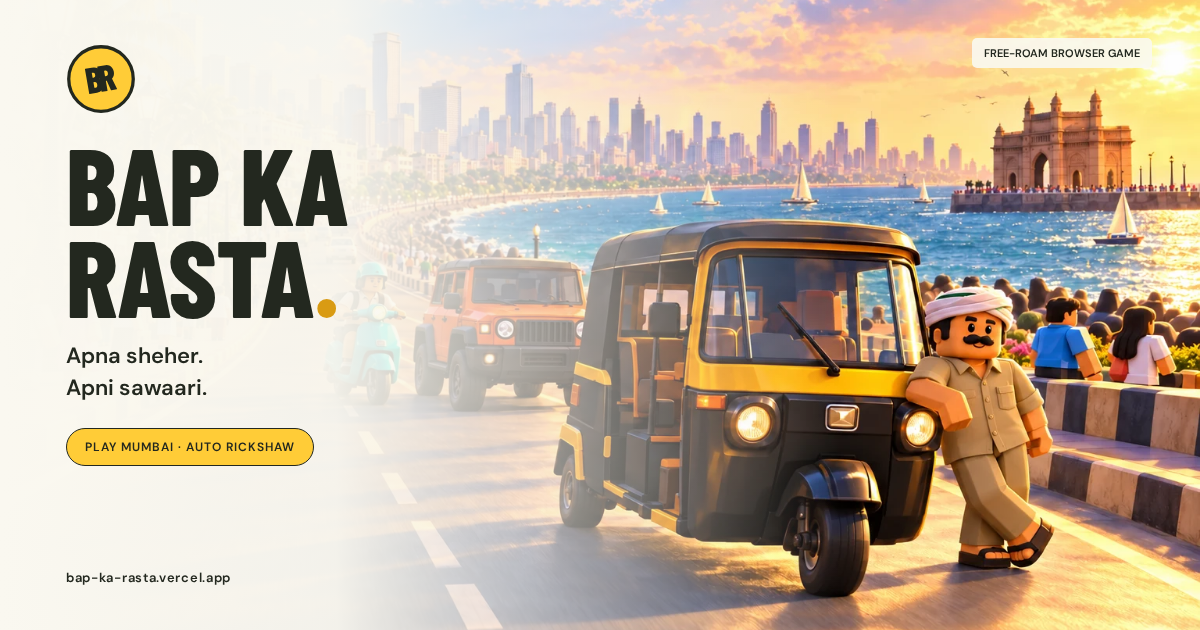
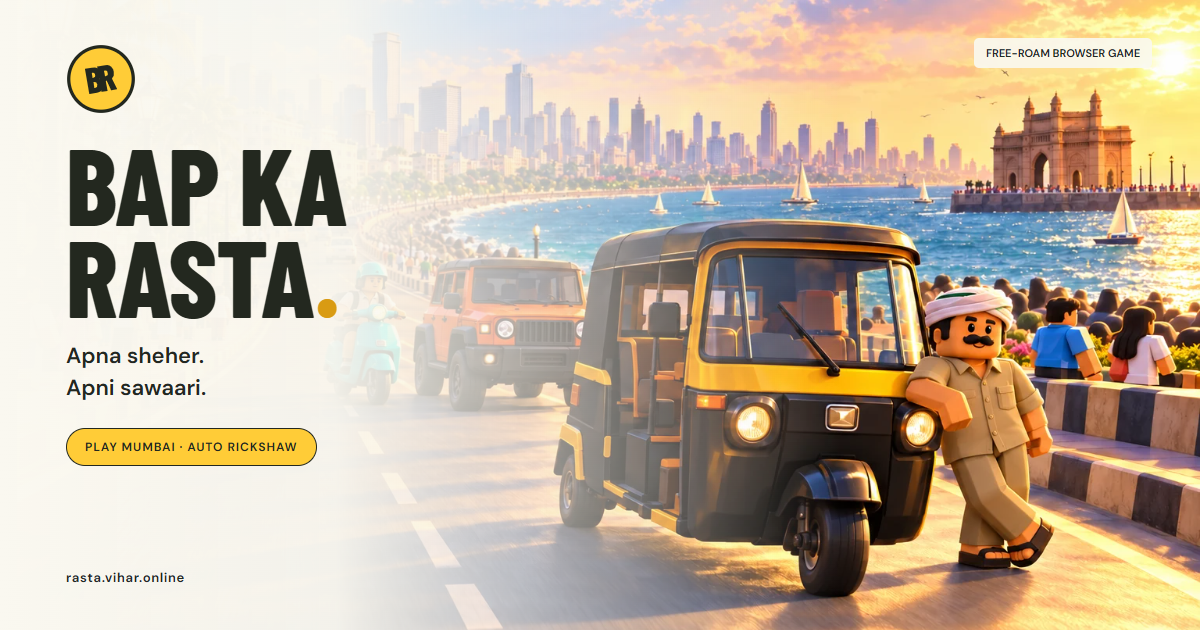
Prerender game landing and correct production canonical URLs

diff --git a/index.html b/index.html
@@ -7,7 +7,7 @@
     <meta name="description" content="Play Bap Ka Rasta, a free-roam Mumbai auto rickshaw game in your browser. Apna sheher. Apni sawaari. Drive on desktop or explore in a landscape canvas on your phone." />
     <meta name="robots" content="index, follow, max-image-preview:large" />
     <title>Bap Ka Rasta — Mumbai Auto Rickshaw Game</title>
-    <link rel="canonical" href="https://bap-ka-rasta.vercel.app/" />
+    <link rel="canonical" href="https://rasta.vihar.online/" />
     <link rel="icon" href="/favicon.svg" type="image/svg+xml" />
     <link rel="icon" href="/brand/favicon-32.png" type="image/png" sizes="32x32" />
     <link rel="shortcut icon" href="/favicon.ico" />
@@ -20,11 +20,11 @@
     <meta property="og:type" content="website" />
     <meta property="og:site_name" content="Bap Ka Rasta" />
     <meta property="og:locale" content="en_IN" />
-    <meta property="og:url" content="https://bap-ka-rasta.vercel.app/" />
+    <meta property="og:url" content="https://rasta.vihar.online/" />
     <meta property="og:title" content="Bap Ka Rasta — Apna sheher. Apni sawaari." />
     <meta property="og:description" content="Your Mumbai. Your auto. Your road. A free-roam driving game for desktop and landscape mobile play." />
-    <meta property="og:image" content="https://bap-ka-rasta.vercel.app/brand/og-cover.png" />
-    <meta property="og:image:secure_url" content="https://bap-ka-rasta.vercel.app/brand/og-cover.png" />
+    <meta property="og:image" content="https://rasta.vihar.online/brand/og-cover.png" />
+    <meta property="og:image:secure_url" content="https://rasta.vihar.online/brand/og-cover.png" />
     <meta property="og:image:type" content="image/png" />
     <meta property="og:image:width" content="1200" />
     <meta property="og:image:height" content="630" />
@@ -32,10 +32,10 @@
     <meta name="twitter:card" content="summary_large_image" />
     <meta name="twitter:title" content="Bap Ka Rasta — Mumbai Auto Rickshaw Game" />
     <meta name="twitter:description" content="Apna sheher. Apni sawaari. Explore Mumbai in your auto — play in your browser." />
-    <meta name="twitter:image" content="https://bap-ka-rasta.vercel.app/brand/og-cover.png" />
+    <meta name="twitter:image" content="https://rasta.vihar.online/brand/og-cover.png" />
     <meta name="twitter:image:alt" content="BR — Bap Ka Rasta, with a Mumbai auto rickshaw and its driver at golden hour." />
     <script type="application/ld+json">
-      {"@context":"https://schema.org","@type":"VideoGame","name":"Bap Ka Rasta","alternateName":"BR","url":"https://bap-ka-rasta.vercel.app/","image":"https://bap-ka-rasta.vercel.app/brand/og-cover.png","description":"A single-player free-roam Mumbai auto rickshaw game played in a web browser.","genre":["Driving","Arcade"],"gamePlatform":"Web browser","playMode":"https://schema.org/SinglePlayer","isAccessibleForFree":true,"inLanguage":"en-IN"}
+      {"@context":"https://schema.org","@type":"VideoGame","name":"Bap Ka Rasta","alternateName":"BR","url":"https://rasta.vihar.online/","image":"https://rasta.vihar.online/brand/og-cover.png","description":"A single-player free-roam Mumbai auto rickshaw game played in a web browser.","genre":["Driving","Arcade"],"gamePlatform":"Web browser","playMode":"https://schema.org/SinglePlayer","isAccessibleForFree":true,"inLanguage":"en-IN"}
     </script>
   </head>
   <body>

diff --git a/src/main.tsx b/src/main.tsx
@@ -1,7 +1,7 @@
 import { initializeGameAds } from "./game-ads";
 import React, { useState } from "react";
-import { createRoot } from "react-dom/client";
-import { ArrowUpRight, MapPin } from "lucide-react";
+import { createRoot, hydrateRoot } from "react-dom/client";
+import Landing from "./Landing";
 import "@fontsource/barlow-condensed/latin-700.css";
 import "@fontsource/barlow-condensed/latin-800.css";
 import "@fontsource/dm-sans/latin-400.css";
@@ -60,69 +60,10 @@ function App() {
       </LandscapeStage>
     );
 
-  return (
-    <>
-      <main className="hero" aria-labelledby="hero-title">
-        <img
-          className="hero-art"
-          src="/images/landing-hero.webp"
-          alt="A blocky auto driver and black-and-yellow rickshaw on Mumbai's golden-hour seafront"
-          fetchPriority="high"
-        />
-        <div className="hero-shade" />
-        <a className="brand" href="/" aria-label="Bap ka Rasta home">
-          <img
-            className="brand-mark"
-            src="/brand/br-mark.svg"
-            alt=""
-            width="42"
-            height="42"
-          />
-          <span>
-            BAP KA
-            <br />
-            RASTA.
-          </span>
-        </a>
-        <div className="hero-copy">
-          <div className="eyebrow">
-            <span /> DESI SADKEIN. FULL FILMY VIBES.
-          </div>
-          <h1 id="hero-title">
-            APNA SHEHER.
-            <br />
-            APNI SAWAARI.
-            <br />
-            <span>APNA RASTA.</span>
-          </h1>
-          <p>
-            Paanch sheher ka plan. Pehla stop, Mumbai.
-            <br />
-            Aur full-on <strong>“bhai, side de!”</strong>
-          </p>
-          <button className="primary" onClick={() => navigate("city")}>
-            Mera Bap Ka Rasta{" "}
-            <span>
-              <ArrowUpRight size={24} />
-            </span>
-          </button>
-          <span className="hero-note">
-            LOGIN KA CHAKKAR NAHI. BAS CHAL PAD.
-          </span>
-        </div>
-        <div className="scene-label">
-          <MapPin size={16} />
-          <span>
-            MUMBAI <small>MARINE DRIVE · GOLDEN HOUR</small>
-          </span>
-        </div>
-      </main>
-    </>
-  );
+  return <Landing onStart={() => navigate("city")} />;
 }
 
-createRoot(document.getElementById("root")!).render(
-  <React.StrictMode>
-    <App />
-  </React.StrictMode>,
-);
+const root = document.getElementById("root")!;
+const app = <React.StrictMode><App /></React.StrictMode>;
+if (root.dataset.prerendered === "true") hydrateRoot(root, app);
+else createRoot(root).render(app);

diff --git a/tests/browser/branding.spec.ts b/tests/browser/branding.spec.ts
@@ -1,5 +1,35 @@
 import { test, expect } from "@playwright/test";
 
+test("landing content is crawlable before JavaScript and hydrates into selection", async ({ page, request, browser }) => {
+  const response = await request.get("/");
+  const html = await response.text();
+  expect(html).toContain('data-prerendered="true"');
+  expect(html).toContain('id="hero-title"');
+  expect(html).toContain('src="/images/landing-hero.webp"');
+  expect(html).toContain('href="https://rasta.vihar.online/"');
+  expect(html).not.toContain("bap-ka-rasta.vercel.app");
+  expect(await (await request.get("/robots.txt")).text()).toContain("https://rasta.vihar.online/sitemap.xml");
+  const sitemap = await (await request.get("/sitemap.xml")).text();
+  expect(sitemap).toContain("<image:loc>https://rasta.vihar.online/images/landing-hero.webp</image:loc>");
+  expect(sitemap).not.toContain("bap-ka-rasta.vercel.app");
+
+  const noJs = await browser.newContext({ javaScriptEnabled: false });
+  try {
+    const staticPage = await noJs.newPage();
+    await staticPage.goto("http://127.0.0.1:4175/");
+    await expect(staticPage.locator("#hero-title")).toBeVisible();
+    await expect(staticPage.locator(".hero-art")).toBeVisible();
+  } finally { await noJs.close(); }
+
+  const errors: string[] = [];
+  page.on("pageerror", (error) => errors.push(error.message));
+  page.on("console", (message) => { if (message.type() === "error") errors.push(message.text()); });
+  await page.goto("/");
+  await page.getByRole("button", { name: "Mera Bap Ka Rasta" }).click();
+  await expect(page.getByRole("button", { name: /Yahin Chalao/ })).toBeVisible();
+  expect(errors).toEqual([]);
+});
+
 test("BR metadata, social cover, favicon and orientation-flexible manifest are public and consistent", async ({
   page,
   request,
@@ -11,7 +41,7 @@ test("BR metadata, social cover, favicon and orientation-flexible manifest are p
   );
   await expect(page.locator('meta[property="og:image"]')).toHaveAttribute(
     "content",
-    "https://bap-ka-rasta.vercel.app/brand/og-cover.png",
+    "https://rasta.vihar.online/brand/og-cover.png",
   );
   await expect(page.locator('meta[name="twitter:card"]')).toHaveAttribute(
     "content",

diff --git a/src/Landing.tsx b/src/Landing.tsx
@@ -1,0 +1,63 @@
+import { ArrowUpRight, MapPin } from "lucide-react";
+
+export default function Landing({ onStart }: { onStart: () => void }) {
+  return (
+    <>
+      <main className="hero" aria-labelledby="hero-title">
+        <img
+          className="hero-art"
+          src="/images/landing-hero.webp"
+          alt="A blocky auto driver and black-and-yellow rickshaw on Mumbai's golden-hour seafront"
+          fetchPriority="high"
+        />
+        <div className="hero-shade" />
+        <a className="brand" href="/" aria-label="Bap ka Rasta home">
+          <img
+            className="brand-mark"
+            src="/brand/br-mark.svg"
+            alt=""
+            width="42"
+            height="42"
+          />
+          <span>
+            BAP KA
+            <br />
+            RASTA.
+          </span>
+        </a>
+        <div className="hero-copy">
+          <div className="eyebrow">
+            <span /> DESI SADKEIN. FULL FILMY VIBES.
+          </div>
+          <h1 id="hero-title">
+            APNA SHEHER.
+            <br />
+            APNI SAWAARI.
+            <br />
+            <span>APNA RASTA.</span>
+          </h1>
+          <p>
+            Paanch sheher ka plan. Pehla stop, Mumbai.
+            <br />
+            Aur full-on <strong>“bhai, side de!”</strong>
+          </p>
+          <button className="primary" onClick={onStart}>
+            Mera Bap Ka Rasta{" "}
+            <span>
+              <ArrowUpRight size={24} />
+            </span>
+          </button>
+          <span className="hero-note">
+            LOGIN KA CHAKKAR NAHI. BAS CHAL PAD.
+          </span>
+        </div>
+        <div className="scene-label">
+          <MapPin size={16} />
+          <span>
+            MUMBAI <small>MARINE DRIVE · GOLDEN HOUR</small>
+          </span>
+        </div>
+      </main>
+    </>
+  );
+}

diff --git a/docs/branding/README.md b/docs/branding/README.md
@@ -31,7 +31,9 @@ The covers reuse the existing generated landing artwork, composed with the canon
 
 `index.html` provides the canonical URL, description, Open Graph tags, X/Twitter large-image tags, image dimensions/alt text, icons and VideoGame structured data. `public/site.webmanifest` defines standalone presentation, app icons and unrestricted device orientation; the application handles its landscape play canvas. `robots.txt` and `sitemap.xml` describe the public landing URL. There is no service worker or offline gameplay promise.
 
-Canonical production URL: `https://bap-ka-rasta.vercel.app/`. Update the canonical, social tags, structured data, sitemap, robots and artwork URL together if the domain changes. Share platforms cache previews; their crawlers must fetch the deployed assets before a new card appears.
+Canonical production URL: `https://rasta.vihar.online/`. Update the canonical, social tags, structured data, sitemap, robots and artwork URL together if the domain changes. Share platforms cache previews; their crawlers must fetch the deployed assets before a new card appears.
+
+The production build renders `src/Landing.tsx` into `dist/index.html` using `scripts/prerender-landing.mjs`; the browser hydrates that same component. Its heading, artwork and launch control are present before JavaScript runs. Selection and gameplay stay client-rendered. The sitemap includes the landing artwork and brand images. Submit `https://rasta.vihar.online/sitemap.xml` in Search Console after deploying; these crawlability changes do not guarantee indexing.
 
 For the GitHub repository's social preview, upload `og-cover.png` in repository Settings → General → Social preview. The image is supplied here; the GitHub settings UI is not changed by committing it.
 

diff --git a/CHANGELOG.md b/CHANGELOG.md
@@ -1,5 +1,8 @@
 # Changelog
 
+- Corrected canonical, social and sitemap URLs to `rasta.vihar.online`; added image sitemap entries. The production build now prerenders the existing React landing screen and hydrates it in the browser, exposing the title and artwork before JavaScript runs while preserving client-side selection and gameplay.
+  - Verified with 81 unit tests, the production build and all 25 Playwright browser tests in Chrome. The new check covers the initial HTML, JavaScript-disabled display, domain consistency and hydration into city selection. Social cover images were regenerated with the new domain.
+
 - Rewrote and regenerated the Mumbai script as 119 clips with varied openings and two conversation topics per local. Street gossip now runs independently of the auto, fades with distance and finishes sentences before replies. Captions are limited to player-directed dialogue. Added bounded concurrent audio mixing, cooperative scene construction, cached road geometry and steadier, faster crowd motion.
 
 - Added 118 short Mumbai Hindi/Marathi voice recordings using only free ElevenLabs presets, with a new line list and voice assignments for all 1,543 people. Nearby locals exchange related question/reply clips and turn toward each other; vendors and impact reactions use matching character voices. Added asynchronous positional playback, ambience ducking, pause/mute/skip cleanup, bounded caching, an offline generator, audio verification and non-commercial free-plan attribution.

diff --git a/README.md b/README.md
@@ -8,7 +8,7 @@ A single-player, browser-based 3D driving game inspired by Indian streets. Explo
 
 Built with React, TypeScript, Vite, and Three.js. The game runs entirely in the browser and can be deployed as a static site without accounts, a backend, API keys, or a database.
 
-[Play the live demo](https://bap-ka-rasta.vercel.app) · [Browse the documentation](docs/README.md) · [Contribute](CONTRIBUTING.md) · [Get support](SUPPORT.md)
+[Play the live demo](https://rasta.vihar.online) · [Browse the documentation](docs/README.md) · [Contribute](CONTRIBUTING.md) · [Get support](SUPPORT.md)
 
 ![BR — Bap Ka Rasta: Apna sheher. Apni sawaari. Mumbai auto rickshaw browser game](public/brand/readme-cover.png)
 
@@ -115,7 +115,7 @@ Run these commands from the repository root:
 | Command | Purpose |
 | --- | --- |
 | `npm run dev` | Start the Vite development server, normally on port 5173 |
-| `npm run build` | Run TypeScript checks and create the static production build in `dist/` |
+| `npm run build` | Run TypeScript checks, build to `dist/`, and prerender the landing screen for crawlers and initial display |
 | `npm run preview` | Serve the existing production build locally, normally on port 4173 |
 | `npm test` | Run simulation and pavement-layout tests |
 | `npm run test:e2e` | Run Playwright browser tests against a production build |
